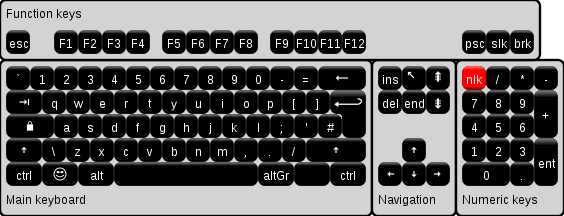
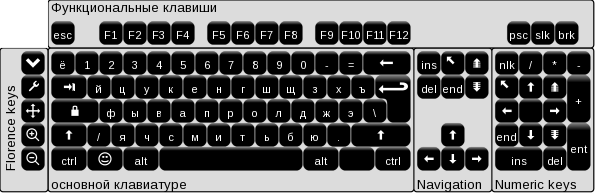
Add florence keys extension documentation.
Make a script to generate the figures and add some text about the
special buttons in the Florence keys extension.

diff --git a/web/svg/docs.php b/web/svg/docs.php
@@ -1,0 +1,132 @@
+<?php
+require_once("tools.php");
+gettext_init();
+echo '<?xml version="1.0" encoding="utf-8" standalone="no"?>'."\n";
+?>
+<xsl:stylesheet version="1.0"
+	xmlns="http://www.w3.org/2000/svg"
+	xmlns:xsl="http://www.w3.org/1999/XSL/Transform"
+	xmlns:flo="http://florence.sourceforge.net"
+	xmlns:svg="http://www.w3.org/2000/svg"
+	xmlns:xlink="http://www.w3.org/1999/xlink">
+
+	<xsl:output version='1.0' method="xml" encoding='UTF-8'/>
+
+	<xsl:output version='1.0' method="xml" encoding='UTF-8'/>
+	<xsl:template match="svg:svg">
+		<xsl:text disable-output-escaping="yes">&lt;!DOCTYPE svg PUBLIC "-//W3C//DTD SVG 1.1//EN" "http://www.w3.org/Graphics/SVG/1.1/DTD/svg11.dtd"&gt;
+			&lt;?xml-stylesheet type="text/css" href="./florence.css"?&gt;</xsl:text>
+		<svg xmlns="http://www.w3.org/2000/svg">
+			<xsl:apply-templates/>
+		</svg>
+	</xsl:template>
+
+	<xsl:template match="svg:svg/svg:svg">
+		<svg>
+			<xsl:attribute name="id">
+				<xsl:value-of select="@id"/>
+			</xsl:attribute>
+
+			<xsl:variable name="y" select="@y"/>
+			<xsl:variable name="x" select="@x"/>
+			<xsl:variable name="position" select="count(//svg:svg/svg:svg[@y=$y and @x&lt;$x])"/>
+
+			<xsl:attribute name="x">
+				<xsl:choose>
+					<xsl:when test="@x = 0">
+						<xsl:value-of select="@x"/>
+					</xsl:when>
+					<xsl:when test="@y = 0">
+						<xsl:value-of select="@x + 40"/>
+					</xsl:when>
+					<xsl:otherwise>
+						<xsl:value-of select="@x + 30 + ( $position * 10 )"/>
+					</xsl:otherwise>
+				</xsl:choose>
+			</xsl:attribute>
+			<xsl:attribute name="y">
+				<xsl:choose>
+					<xsl:when test="@y = 0">
+						<xsl:value-of select="@y"/>
+					</xsl:when>
+					<xsl:otherwise>
+						<xsl:value-of select="@y + 40"/>
+					</xsl:otherwise>
+				</xsl:choose>
+			</xsl:attribute>
+
+			<rect style="fill:rgb(220,220,220);stroke-width:2;stroke:rgb(0,0,0)" rx="5" ry="5">
+				<xsl:attribute name="width">
+					<xsl:choose>
+						<xsl:when test="@x = 0">
+							<xsl:value-of select="@width + 40"/>
+						</xsl:when>
+						<xsl:when test="@y = 0">
+							<xsl:value-of select="@width + 30"/>
+						</xsl:when>
+						<xsl:otherwise>
+							<xsl:value-of select="@width + 10"/>
+						</xsl:otherwise>
+					</xsl:choose>
+				</xsl:attribute>
+				<xsl:attribute name="height">
+					<xsl:value-of select="@height + 40"/>
+				</xsl:attribute>
+			</rect>
+
+			<text font-family="Arial" font-size="22">
+				<xsl:attribute name="x">
+					<xsl:choose>
+						<xsl:when test="@x = 0">-145</xsl:when>
+						<xsl:otherwise>5</xsl:otherwise>
+					</xsl:choose>
+				</xsl:attribute>
+				<xsl:attribute name="y">
+					<xsl:choose>
+						<xsl:when test="@x = 0">-15</xsl:when>
+						<xsl:when test="@y = 0">20</xsl:when>
+						<xsl:otherwise>
+							<xsl:value-of select="35+@height"/>
+						</xsl:otherwise>
+					</xsl:choose>
+				</xsl:attribute>
+				<xsl:choose>
+					<xsl:when test="@x = 0">
+						<xsl:attribute name="transform">rotate(270 50,10)</xsl:attribute>
+					</xsl:when>
+				</xsl:choose>
+	 			<xsl:choose>
+					<xsl:when test="@id = 'Florencekeys'"><?php echo _("Florence keys"); ?></xsl:when>
+					<xsl:when test="@id = 'Navigationkeys'"><?php echo _("Navigation"); ?></xsl:when>
+					<xsl:when test="@id = 'Functionkeys'"><?php echo _("Function keys"); ?></xsl:when>
+					<xsl:when test="@id = 'Numerickeys'"><?php echo _("Numeric keys"); ?></xsl:when>
+					<xsl:when test="@id = 'Main'"><?php echo _("Main keyboard"); ?></xsl:when>
+				</xsl:choose>
+			</text>
+
+			<g>
+				<xsl:attribute name="transform">
+					<xsl:choose>
+						<xsl:when test="@id = 'Florencekeys'">translate(35 5) </xsl:when>
+						<xsl:when test="@y = 0">translate(5 35)</xsl:when>
+						<xsl:otherwise>translate(5 5)</xsl:otherwise>
+					</xsl:choose>
+				</xsl:attribute>
+				<xsl:copy-of select="*"/>
+			</g>
+		</svg>
+	</xsl:template>
+
+	<xsl:template match="svg:svg/svg:title">
+		<title>
+			<xsl:copy-of select="text()"/>
+		</title>
+	</xsl:template>
+
+	<xsl:template match="svg:svg/svg:desc">
+		<desc>
+			<xsl:copy-of select="text()"/>
+		</desc>
+	</xsl:template>
+
+</xsl:stylesheet>

diff --git a/web/svg/key.php b/web/svg/key.php
@@ -1,0 +1,6 @@
+<svg xmlns="http://www.w3.org/2000/svg" xmlns:flo="http://florence.sourceforge.net" xmlns:svg="http://www.w3.org/2000/svg" xmlns:xlink="http://www.w3.org/1999/xlink"><title>key</title><desc/>
+
+<use transform="scale(20)" width="2" height="2" xlink:href="style.svg#s_default" x="0" y="0" xlink:type="simple" xlink:show="embed" xlink:actuate="onLoad"/>
+<use width="40" height="40" x="0" y="0" xlink:href="style.svg#t_<?php echo $argv[1]; ?>" xlink:type="simple" xlink:show="embed" xlink:actuate="onLoad"/>
+
+</svg>
